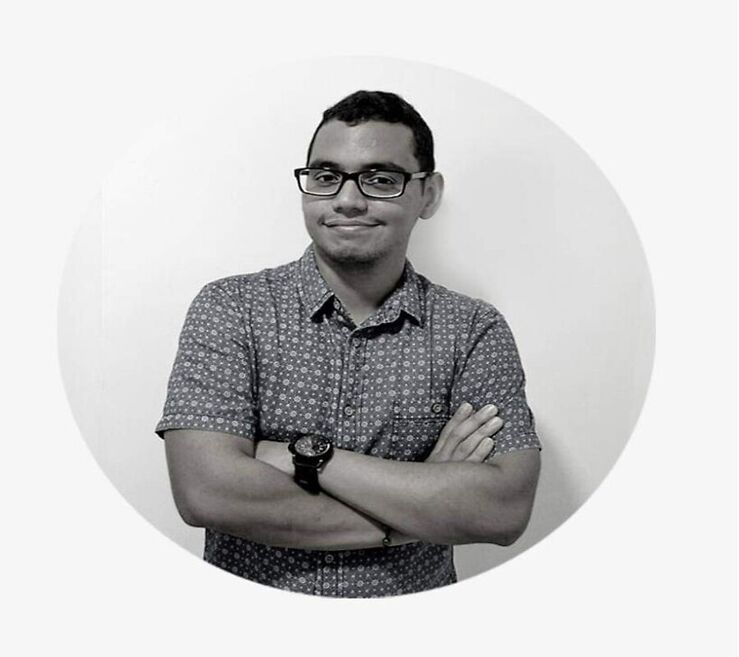
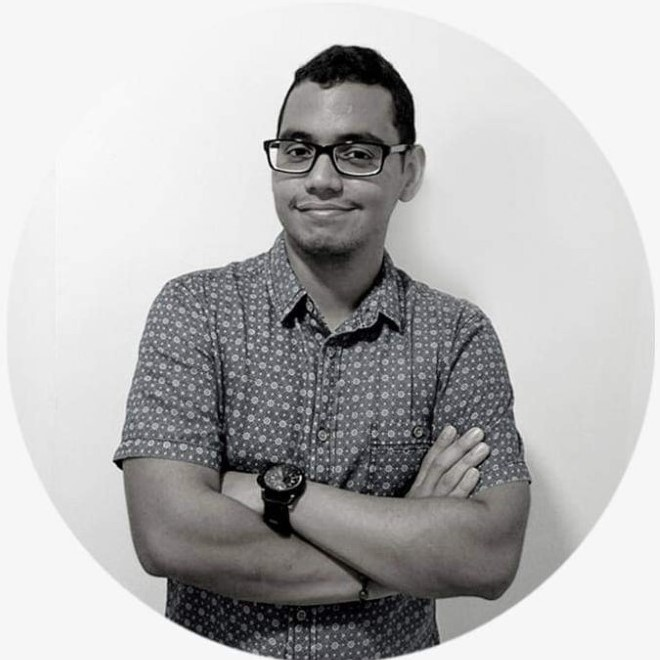
adding members images and removing unused images

diff --git a/index.html b/index.html
@@ -14,7 +14,7 @@
         <header>
             <nav>
                 <div class="row">
-                    <img src="assets/img/luki-logo.png" alt="luki logo" class="logo">
+                    <img src="assets/img/ic_luki.png" alt="luki logo" class="logo">
                     <ul class="main-nav">
                         <li><a href="">Download</a></li>
                         <li><a href="">Abouth</a></li>

diff --git a/assets/css/style.css b/assets/css/style.css
@@ -363,6 +363,7 @@ header {
     width: 100%;
     height: auto;
     margin-bottom: 15px;
+    border-radius: 50%;
 }
 
 .developer {
